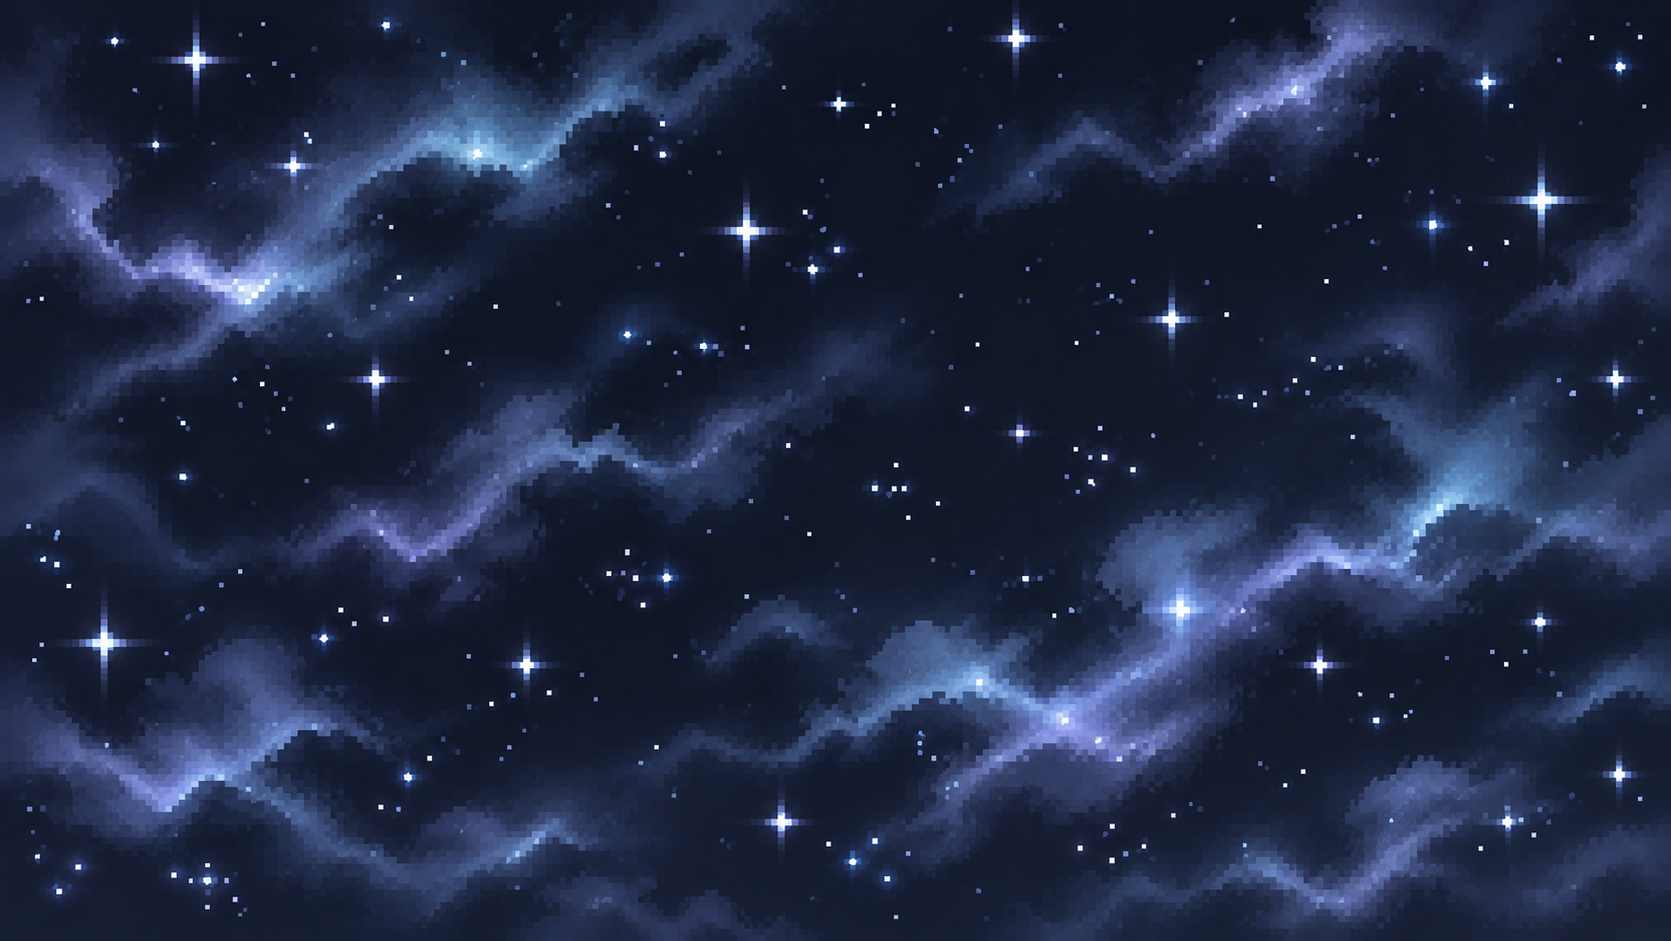
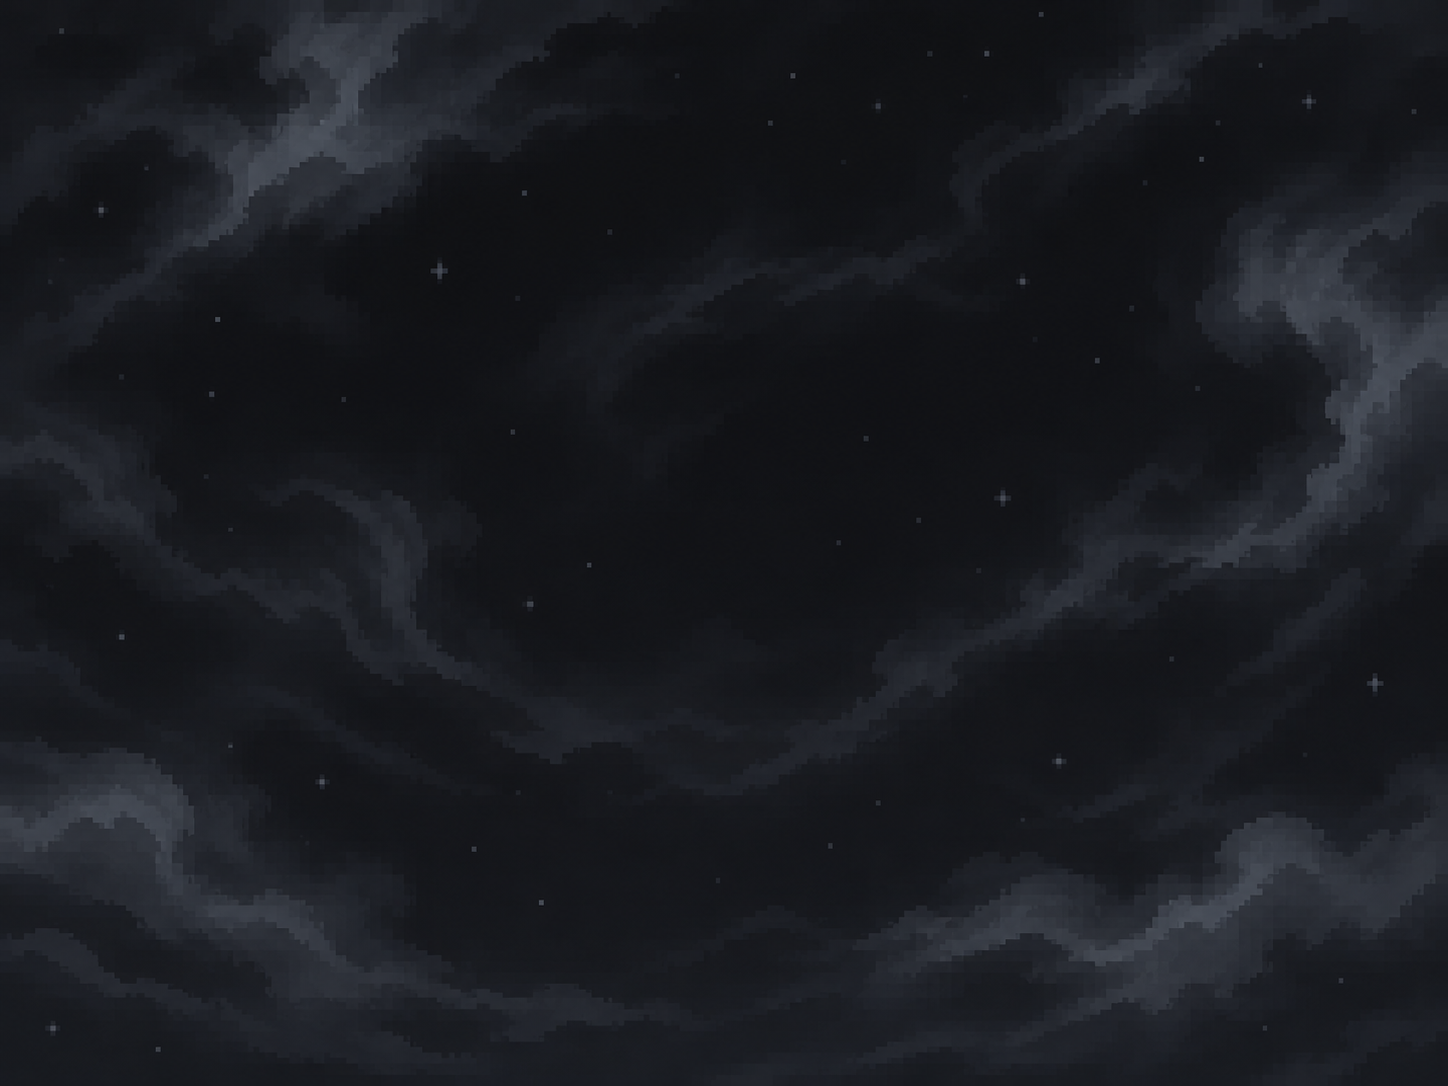
스테이지마다 배경 삽입 완료

diff --git a/stage_01_1.py b/stage_01_1.py
@@ -4,6 +4,7 @@ from collision import check_platform_collision
 class stage_01_1:
 
     def __init__(self):
+        self.background=load_image('background/Stage_01_2.png')
         self.Tile_01=load_image('Map_01/DGreen_Grass/Tile_04.png')
         self.Tile_02=load_image('Map_01/DGreen_Grass/Tile_01.png')
         self.Tile_03=load_image('Map_01/DGreen_Grass/Tile_02.png')
@@ -62,6 +63,8 @@ class stage_01_1:
         return left, bottom, right, top
 
     def draw(self):
+        self.background.draw(550, 325, 1100, 650)
+
         for platform in self.platforms:
             platform['image'].draw(
                 platform['x'], platform['y'],

diff --git a/stage_03.py b/stage_03.py
@@ -3,6 +3,7 @@ from collision import check_platform_collision
 
 class stage_03:
     def __init__(self):
+        self.background=load_image('background/Stage_03.png')
         self.Tile_01=load_image('Map_03/purple_space/P_Tile_01.png')
         self.Tile_02=load_image('Map_03/purple_space/P_Tile_11.png')
         self.Tile_03=load_image('Map_03/purple_space/P_Tile_10.png')
@@ -70,6 +71,8 @@ class stage_03:
         return left, bottom, right, top
 
     def draw(self):
+        self.background.draw(550, 325, 1100, 650)
+
         for platform in self.platforms:
             platform['image'].draw(
                 platform['x'], platform['y'],

diff --git a/bossmap.py b/bossmap.py
@@ -3,6 +3,7 @@ from collision import check_collision
 
 class bossmap:
     def __init__(self):
+        self.background=load_image('background/Boss.png')
         self.image=load_image('Map_03/gray_space/G_Tile_11.png')
         
         self.left = 0
@@ -13,6 +14,7 @@ class bossmap:
         pass
 
     def draw(self):
+        self.background.draw(550, 325, 1100, 650)
         self.image.draw(550,10,1200,300)
 
         #빨간색 충돌 박스
